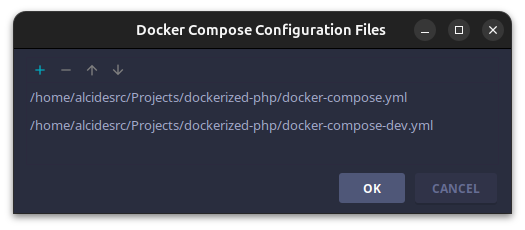
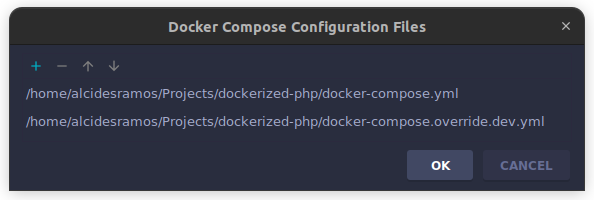
docs(README.md): update XDebug section

diff --git a/README.md b/README.md
@@ -3,7 +3,7 @@
 # Dockerized PHP
 
 
-> A _dockerized_ environment based on Caddy + PHP-FPM running on a Linux Alpine container. 
+> A _dockerized_ environment based on Caddy + PHP-FPM running on separated Linux Alpine containers. 
 
 
 [TOC]
@@ -19,10 +19,10 @@ This repository contains a _dockerized_ environment for building PHP application
 ### Highlights
 
 - Unified environment to build <abbr title="Command Line Interface">CLI</abbr>, <u>web applications</u> and/or <u>micro-services</u> based on **PHP8**.
-- Allows you to create an optimized **development environment** Docker image
-- Allows you to create an optimized **production-ready** Docker image
--  **Self-signed local domains** thanks to Caddy.
-
+- Multi-stage Dockerfile to allows you to create an optimized **development** or **production-ready** Docker images
+- Uses **Caddy webserver**.
+- **Self-signed local domains** thanks to Caddy.
+- **Everything on separated Docker services**.
 
 
 ------
@@ -76,7 +76,7 @@ $ git clone git@github.com:alcidesrc/dockerized-php.git .
 
 `Dockerfile` is based on [multi-stage builds](https://docs.docker.com/build/building/multi-stage/) in order to simplify the process to generate the **development container image** and the optimized **production-ready container image**.
 
-##### Default Stages
+##### Defined Stages
 
 | Name                        | Description                                                                          |
 | --------------------------- | ------------------------------------------------------------------------------------ |
@@ -88,7 +88,7 @@ $ git clone git@github.com:alcidesrc/dockerized-php.git .
 | `optimize-php-dependencies` | Used to optimize the PHP dependencies in production by removing the development ones |
 | `build-production`          | Used to build the **production** environment                                         |
 
-###### Default Stages Hierarchy
+###### Defined Stages Hierarchy
 
 ```mermaid
 ---
@@ -108,7 +108,7 @@ stateDiagram-v2
 
 ##### Health check
 
-A custom health check script is provided to check the container service by performing a `PHP-FPM` `ping/pong` check. 
+A custom health check script is provided to check the container service by performing the default `PHP-FPM` `ping/pong` check. 
 
 You can find this shell script at `build/healthcheck.sh`.
 
@@ -181,7 +181,7 @@ The container service logs to `STDOUT` by default.
 
 ##### Volumes
 
-There are some volumes created between the *host* and the container service:
+There is a **bind volume** created between the *host* and the container service:
 
 | Host path | Container path  | Description            |
 | --------- | --------------- | ---------------------- |
@@ -231,6 +231,8 @@ A *Makefile* is provided with following commands:
 · install-laravel                     Application: installs Laravel
 · install-symfony                     Application: installs Symfony
 · uninstall                           Application: removes the PHP application
+· open-website                        Application: open the application website
+· init                                Application: initializes the application
 ```
 
 #### Web Server
@@ -310,37 +312,45 @@ Testing with date and/or time variations sometimes can be a nightmare. To assist
 
 
 
-### Max. simultaneous connectionsMax. simultaneous connectionsDevelopment Environment
+### Development Environment
 
-#### Build Docker Image
+#### Quickstart
 
-##### Linux Based Hosts
+```bash
+$ make init
+```
+
+##### TL;DR
+
+###### Building the container
 
 ```bash
 $ make build
 ```
 
-##### Windows Hosts
+###### Starting the container service
 
 ```bash
-$ docker compose build
+$ make up
 ```
 
-#### Access to Container
-
-##### Linux Based Hosts
+###### Extracting Caddy Local Authority - 20XX ECC Root 
 
 ```bash
-$ make bash
+$ make install-caddy-certificate
 ```
 
-##### Windows Hosts
+###### Accessing to web application
 
 ```bash
-$ docker run -it --rm app:development bash
+$ make open-website
 ```
 
+###### Stopping the container service
 
+```bash
+$ make down
+```
 
 #### Setup PHPStorm
 
@@ -375,7 +385,7 @@ Ensure the `~/path/to/my-new-project/src` folder is mapped to `/var/www/html`
 > When selecting Docker Compose configuration files, ensure to include:
 >
 > 1. The `docker-compose.yml` file, which contains the default service(s) specification
-> 2. The `docker-compose-dev.yml` file, which contains some override values or customization from default specification.
+> 2. The `docker-compose.override.dev.yml` file, which may contains some override values or customization from default specification.
 >
 > **The order on here is important!**
 
@@ -387,37 +397,45 @@ Ensure the `~/path/to/my-new-project/src` folder is mapped to `/var/www/html`
 
 ### Production Environment
 
-#### Build Docker Image
-
-##### Linux Based Hosts
+#### Quickstart
 
 ```bash
-$ make env=prod
+$ make init env=prod
 ```
 
-##### Windows Hosts
+##### TL;DR
+
+###### Building the container
 
 ```bash
-$ docker buildx build --target=build-production --tag="app:production" .
+$ make build env=prod
 ```
 
-#### Access to Container
-
-##### Linux Based Hosts
+###### Starting the container service
 
 ```bash
-$ make shell env=prod
+$ make up env=prod
 ```
 
-##### Windows Hosts
+###### Extracting Caddy Local Authority - 20XX ECC Root 
 
 ```bash
-$ docker run -it --rm app:production sh
+$ make install-caddy-certificate env=prod
 ```
 
+###### Accessing to web application
 
+```bash
+$ make open-website env=prod
+```
 
+###### Stopping the container service
 
+```bash
+$ make down env=prod
+```
+
+#### 
 
 ------
 
